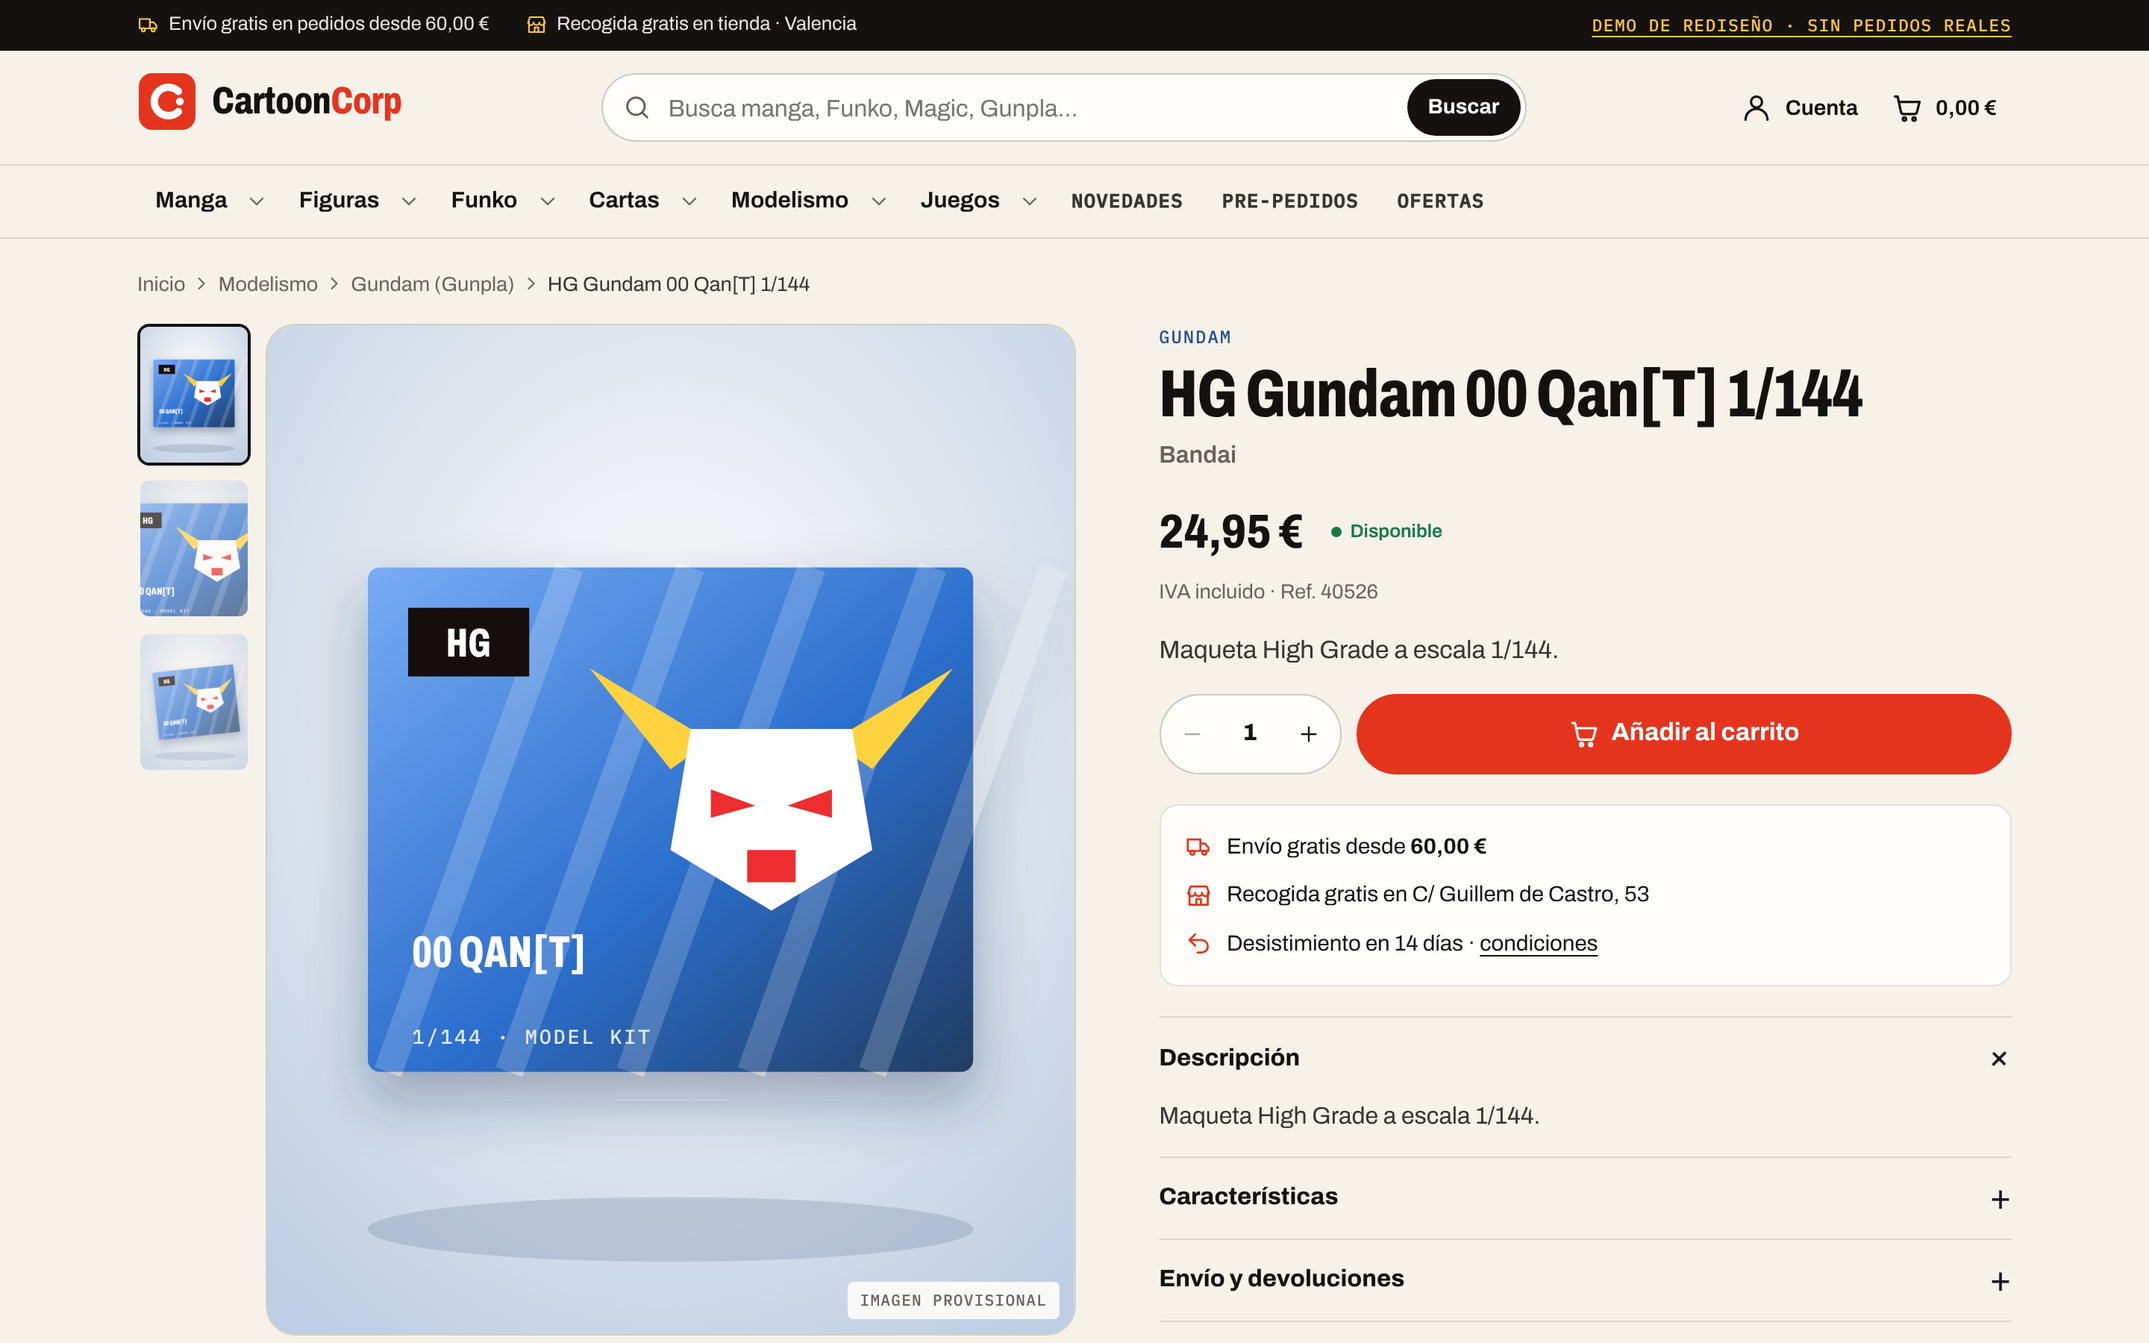
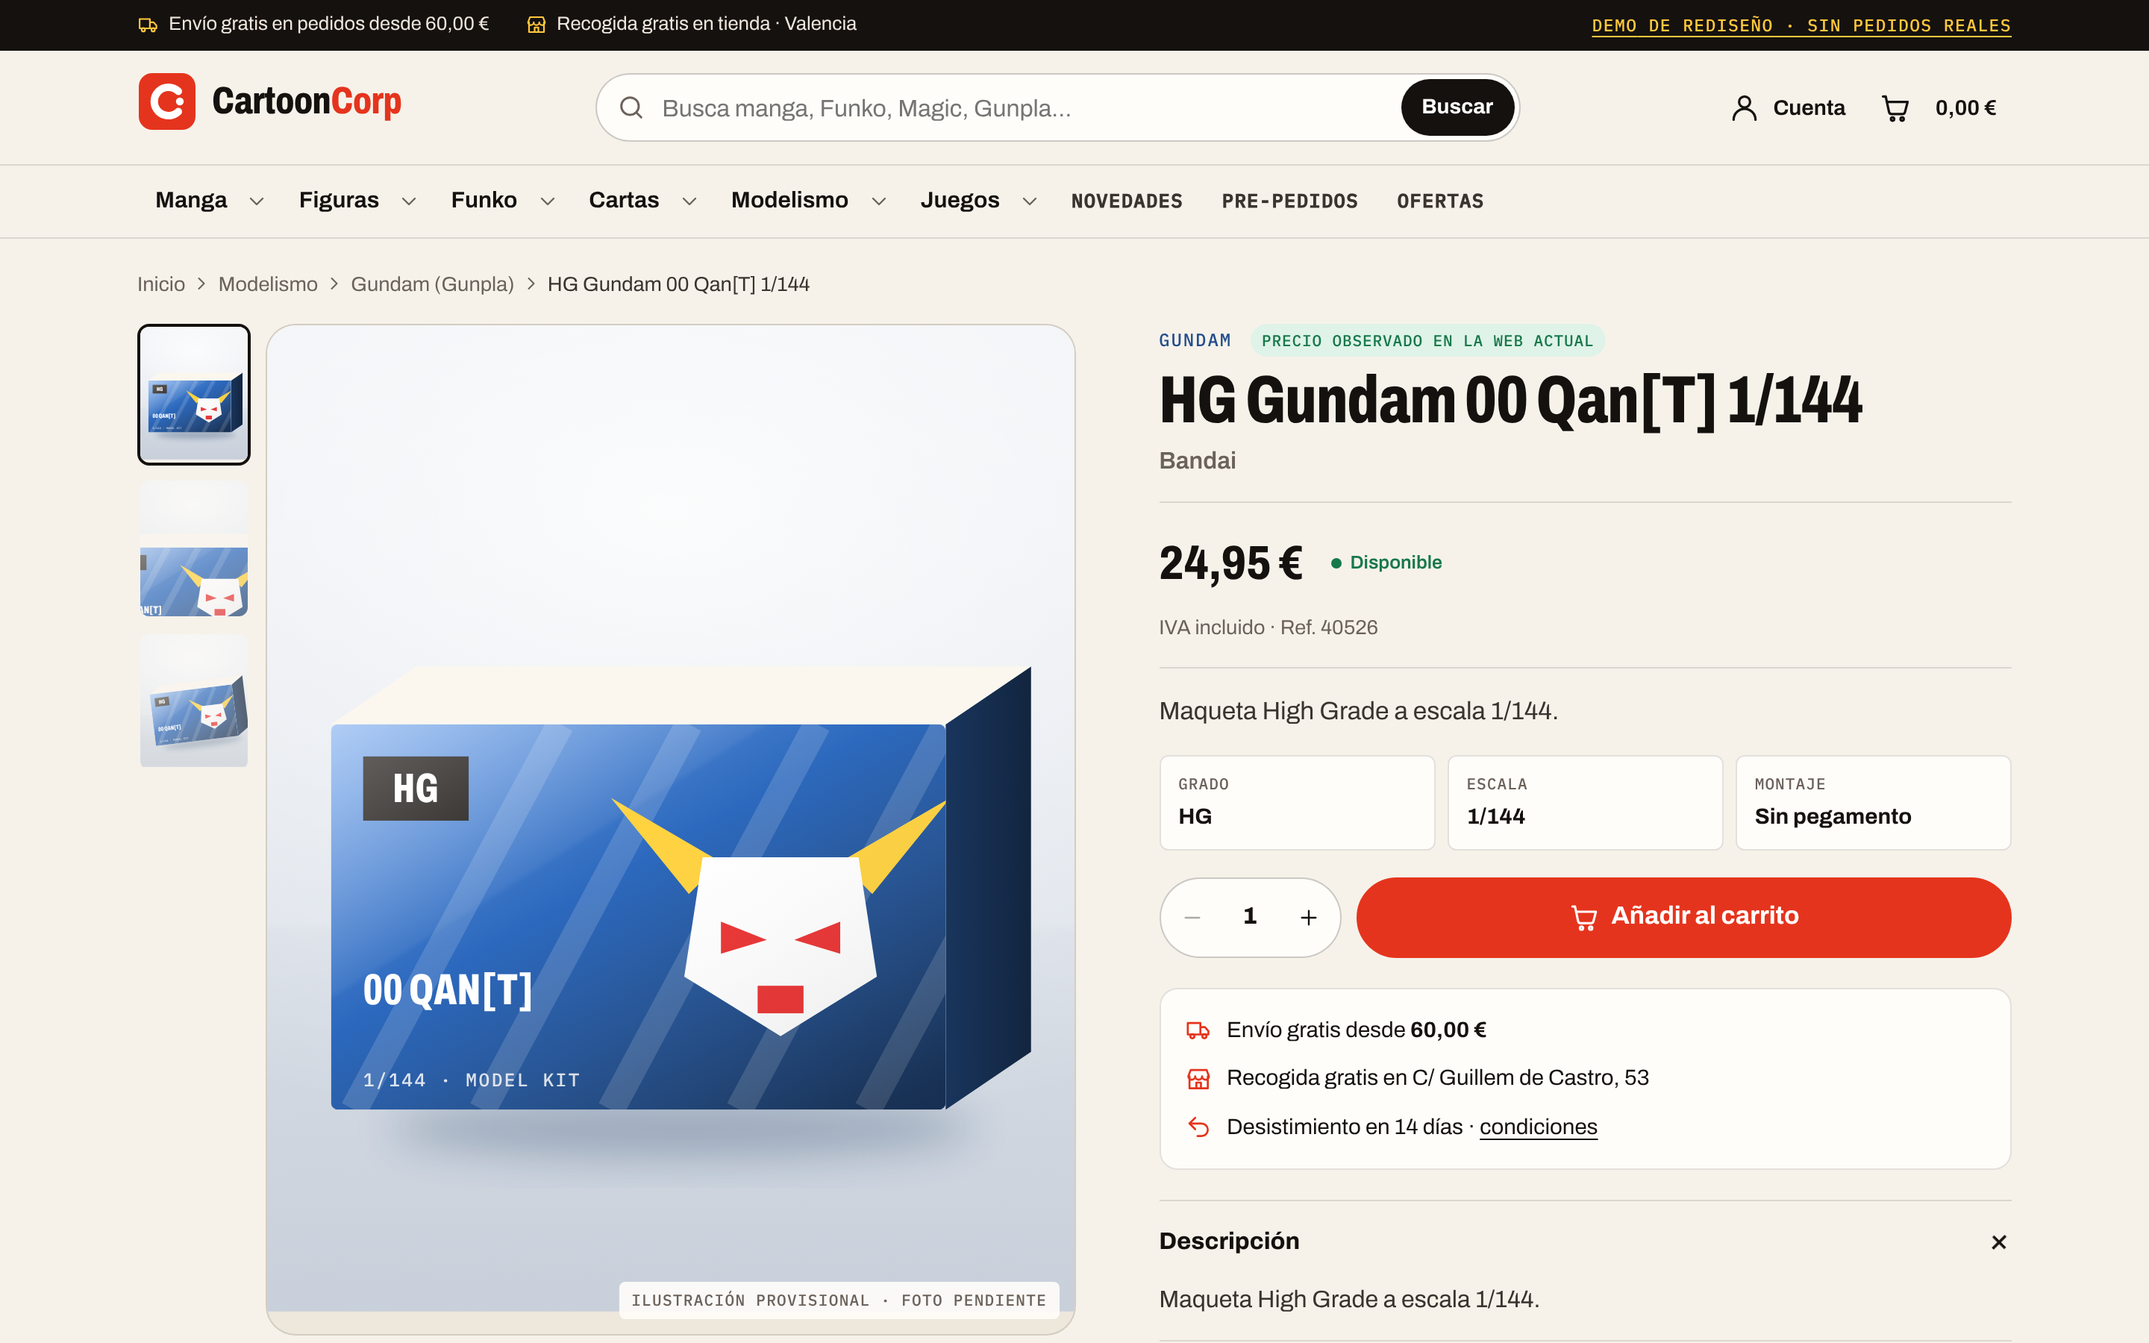
Segunda iteración: corregir barra fija, fotos reales y detalles visuales
- Barra de compra fija en móvil: se calcula en cada scroll; con
  IntersectionObserver no aparecía tras saltos bruscos de scroll.
- ProductMedia: fallo de foto recordado por URL (una foto rota no afecta
  al resto de la galería) y crédito/nota de la galería dentro del
  componente para no mostrar el crédito de una foto que no carga.
- Contador del carrito que tapaba el importe, icono del mapa que saltaba
  de línea, newsletter fuera del checkout y etiqueta «Producto demo» en
  el resumen del pedido.
- Documentación: cifras corregidas (44 productos, 34 con nombre y 25 con
  precio observados), guía para añadir fotos reales y registro de cambios.
- Capturas de docs/capturas actualizadas.

Claude-Session: https://claude.ai/code/session_011khPgsp6QF3zhoMW4gWyVA

diff --git a/cartooncorp-demo/src/pages/ProductPage.tsx b/cartooncorp-demo/src/pages/ProductPage.tsx
@@ -54,13 +54,27 @@ function ProductView({ product }: { product: Product }) {
   const buyBox = useRef<HTMLDivElement>(null);
   const [showSticky, setShowSticky] = useState(false);
 
-  // Barra fija de compra en móvil cuando el botón principal sale de la vista.
+  // Barra fija de compra en móvil cuando el botón principal queda por encima
+  // de la pantalla. Se calcula en cada scroll (y no con IntersectionObserver)
+  // para que funcione también con saltos bruscos de scroll.
   useEffect(() => {
-    const el = buyBox.current;
-    if (!el || typeof IntersectionObserver === "undefined") return;
-    const io = new IntersectionObserver(([entry]) => setShowSticky(!entry.isIntersecting && entry.boundingClientRect.top < 0));
-    io.observe(el);
-    return () => io.disconnect();
+    let frame = 0;
+    const update = () => {
+      frame = 0;
+      const el = buyBox.current;
+      if (el) setShowSticky(el.getBoundingClientRect().bottom < 0);
+    };
+    const onScroll = () => {
+      if (!frame) frame = requestAnimationFrame(update);
+    };
+    update();
+    window.addEventListener("scroll", onScroll, { passive: true });
+    window.addEventListener("resize", onScroll);
+    return () => {
+      cancelAnimationFrame(frame);
+      window.removeEventListener("scroll", onScroll);
+      window.removeEventListener("resize", onScroll);
+    };
   }, []);
 
   const onAdd = () => {
@@ -229,13 +243,10 @@ function Gallery({ product }: { product: Product }) {
   const slides = photos.length > 1 ? photos.map((p, i) => ({ label: p.alt, index: i, view: 0 })) : ["Vista frontal", "Detalle", "Vista en ángulo"].map((label, v) => ({ label, index: 0, view: photos.length ? 0 : v }));
   const items = photos.length === 1 ? slides.slice(0, 1) : slides;
   const current = items[view] ?? items[0];
-  const photo = product.images[current.index];
   return (
     <div className="gallery">
       <div className="gallery__main">
-        <ProductMedia product={product} index={current.index} view={current.view} eager sizes="(min-width: 768px) 50vw, 100vw" />
-        {!photo?.src && <span className="gallery__note">Ilustración provisional · foto pendiente</span>}
-        {photo?.src && photo.credit && <span className="gallery__note">© {photo.credit}{photo.license ? ` · ${photo.license}` : ""}</span>}
+        <ProductMedia product={product} index={current.index} view={current.view} eager caption sizes="(min-width: 768px) 50vw, 100vw" />
       </div>
       {items.length > 1 && (
         <div className="gallery__thumbs" role="group" aria-label="Imágenes del producto">

diff --git a/cartooncorp-demo/src/components/ProductMedia.tsx b/cartooncorp-demo/src/components/ProductMedia.tsx
@@ -5,13 +5,15 @@ import { ProductArt } from "./ProductArt";
 /**
  * Imagen de producto. Usa la foto real (`product.images[i].src`) cuando existe
  * y vuelve a la ilustración provisional si no hay foto o si no carga.
- * Con `mark`, la ilustración lleva una etiqueta que la identifica como provisional.
+ * Con `mark`, la ilustración lleva una etiqueta que la identifica como provisional;
+ * con `caption`, una nota más detallada (para la galería), o el crédito de la foto.
  */
 export function ProductMedia({
   product,
   index = 0,
   view = 0,
   mark = false,
+  caption = false,
   eager = false,
   sizes = "(min-width: 1024px) 25vw, 50vw",
   frame,
@@ -20,26 +22,36 @@ export function ProductMedia({
   index?: number;
   view?: number;
   mark?: boolean;
+  caption?: boolean;
   eager?: boolean;
   sizes?: string;
   frame?: "portrait" | "wide";
 }) {
   const image = product.images[index] ?? product.images[0];
-  const [failed, setFailed] = useState(false);
+  // Se guarda qué URL ha fallado para que una foto rota no afecte a las demás.
+  const [failedSrc, setFailedSrc] = useState<string>();
 
-  if (image?.src && !failed) {
+  if (image?.src && image.src !== failedSrc) {
     return (
-      <img
-        className="product-photo"
-        src={image.src}
-        alt={image.alt}
-        width={1200}
-        height={1500}
-        sizes={sizes}
-        loading={eager ? "eager" : "lazy"}
-        decoding="async"
-        onError={() => setFailed(true)}
-      />
+      <>
+        <img
+          className="product-photo"
+          src={image.src}
+          alt={image.alt}
+          width={1200}
+          height={1500}
+          sizes={sizes}
+          loading={eager ? "eager" : "lazy"}
+          decoding="async"
+          onError={() => setFailedSrc(image.src)}
+        />
+        {caption && image.credit && (
+          <span className="gallery__note">
+            © {image.credit}
+            {image.license ? ` · ${image.license}` : ""}
+          </span>
+        )}
+      </>
     );
   }
 
@@ -47,6 +59,7 @@ export function ProductMedia({
     <>
       <ProductArt product={product} view={view} frame={frame} />
       {mark && <span className="ph-mark">Ilustración provisional</span>}
+      {caption && <span className="gallery__note">Ilustración provisional · foto pendiente</span>}
     </>
   );
 }

diff --git a/cartooncorp-demo/src/styles/global.css b/cartooncorp-demo/src/styles/global.css
@@ -677,6 +677,7 @@ main:focus { outline: none; }
 .summary__qty { position: absolute; top: -6px; right: -6px; min-width: 22px; height: 22px; border-radius: 999px; background: var(--ink); color: #fff; font-size: 0.75rem; font-weight: 800; display: grid; place-items: center; }
 .summary__name { line-height: 1.3; display: grid; }
 .summary__name small { color: var(--muted); }
+.summary__name .summary__demo { color: var(--warn); font-family: var(--mono); font-size: 0.66rem; text-transform: uppercase; letter-spacing: 0.04em; }
 
 /* ---------- checkout y formularios ---------- */
 .checkout__banner { display: flex; gap: 12px; align-items: flex-start; padding: 14px 16px; border-radius: var(--r); background: var(--warn-soft); border: 1px solid #f0d58a; margin-bottom: 20px; font-size: 0.92rem; }
@@ -758,7 +759,8 @@ main:focus { outline: none; }
 .contact__list li { display: flex; gap: 14px; }
 .contact__list .icon { width: 24px; height: 24px; color: var(--brand); margin-top: 2px; }
 .contact__list div { display: grid; gap: 2px; }
-.contact__list a { font-weight: 600; }
+.contact__list a { font-weight: 600; display: inline-flex; align-items: center; gap: 4px; }
+.contact__list a .icon { width: 16px; height: 16px; }
 .contact__sent { display: grid; justify-items: start; gap: 12px; }
 .store-page { display: grid; gap: 28px; align-items: start; }
 .store-page__panels { display: grid; gap: 16px; }
@@ -858,7 +860,8 @@ main:focus { outline: none; }
   .header__burger, .header__search-btn { display: none; }
   .header__search { display: block; flex: 1; max-width: 620px; margin: 0 auto; }
   .header__action-label { display: inline; }
-  .header__cart .badge-count { right: auto; left: 26px; }
+  .header__cart .badge-count { right: auto; left: 20px; top: 0; min-width: 19px; height: 19px; font-size: 0.68rem; }
+  .header__cart .header__action-label { margin-left: 8px; font-variant-numeric: tabular-nums; }
   .catbar { display: block; }
   .logo__mark { width: 40px; height: 40px; }
   .logo__word { font-size: 1.6rem; }

diff --git a/cartooncorp-demo/src/pages/AboutDemoPage.tsx b/cartooncorp-demo/src/pages/AboutDemoPage.tsx
@@ -39,7 +39,7 @@ export default function AboutDemoPage() {
         <h2>Qué es real y qué es simulado</h2>
         <ul>
           <li><strong>{observed} de {products.length} productos</strong> usan nombres vistos en la web pública; {observedPrice} de ellos también su precio (consulta de octubre de 2026, puede haber cambiado).</li>
-          <li>Los productos marcados como <em>«producto de demostración»</em> son ficticios y sirven para mostrar secciones o estados (agotado, pre-pedido, variantes).</li>
+          <li>Los productos con la etiqueta <em>«Producto demo»</em> son ficticios y sirven para mostrar secciones o estados (agotado, pre-pedido, variantes). Cada ficha indica además si su precio es el observado en la web actual o uno de demostración.</li>
           <li>Sólo se muestran precios tachados cuando el precio anterior se vio en la web actual.</li>
           <li>La disponibilidad es simulada salvo dos casos observados.</li>
           <li>Las imágenes son ilustraciones provisionales generadas para la demo; el logotipo es una propuesta y no el oficial.</li>

diff --git a/cartooncorp-demo/src/components/Footer.tsx b/cartooncorp-demo/src/components/Footer.tsx
@@ -1,5 +1,5 @@
 import { useState, type FormEvent } from "react";
-import { Link } from "react-router";
+import { Link, useLocation } from "react-router";
 import { topCategories } from "../data/categories";
 import { store } from "../data/store";
 import { email as emailRule } from "../services/validation";
@@ -8,9 +8,12 @@ import { Icon } from "./Icon";
 import { Logo } from "./Logo";
 
 export function Footer() {
+  // En el checkout y la confirmación no se distrae con la suscripción.
+  const { pathname } = useLocation();
+  const inCheckout = pathname.startsWith("/checkout") || pathname.startsWith("/pedido/");
   return (
     <footer className="footer">
-      <Newsletter />
+      {!inCheckout && <Newsletter />}
       <div className="container footer__grid">
         <div className="footer__brand">
           <Logo inverted />

diff --git a/cartooncorp-demo/src/pages/CheckoutPage.tsx b/cartooncorp-demo/src/pages/CheckoutPage.tsx
@@ -292,6 +292,7 @@ export default function CheckoutPage() {
                 <span className="summary__name">
                   {l.product.name}
                   {l.optionLabels.length > 0 && <small>{l.optionLabels.join(" · ")}</small>}
+                  {l.product.source.name === "demo" && <small className="summary__demo">Producto demo</small>}
                 </span>
                 <span>{formatPrice(l.lineTotal)}</span>
               </li>

diff --git a/cartooncorp-demo/docs/ENTREGA.md b/cartooncorp-demo/docs/ENTREGA.md
@@ -86,10 +86,10 @@ No usa el código, la base de datos ni el panel de la tienda actual, y no está 
 
 ## 3. Elementos demostrativos que necesitan datos reales del cliente
 
-- **Catálogo completo.** La demo tiene 45 productos: 35 con nombre real y 26 de ellos también con precio observado, más 10 productos ficticios marcados "(producto de demostración)".
+- **Catálogo completo.** La demo tiene 44 productos: 34 con nombre real y 25 de ellos también con precio observado, más 10 productos ficticios con la etiqueta "Producto demo".
 - **Precios.** Hay que confirmar los observados y sustituir los de demostración.
 - **Stock y disponibilidad.** Son simulados, salvo 2 casos observados.
-- **Fotografías de producto.** Ahora son ilustraciones SVG generadas. El campo `images[].src` ya está preparado para poner la foto real.
+- **Fotografías de producto.** Ahora son ilustraciones provisionales, marcadas como tales. Para añadir las fotos reales ver la sección 7.
 - **Logotipo y colores de marca.** El logotipo es una propuesta (`src/components/Logo.tsx`).
 - **Tarifas y plazos de envío.** Los 4,95 € son un valor de demostración.
 - **Formas de pago y condiciones de los pre-pedidos.**
@@ -98,6 +98,8 @@ No usa el código, la base de datos ni el panel de la tienda actual, y no está 
 - **Orden de "Novedades"** (`addedAt` es una fecha interna de la demo).
 
 ## 4. Limitaciones por no tener acceso al sistema original
+
+- No se han podido incluir fotos reales de producto: el entorno de desarrollo bloquea los bancos de imágenes con licencia abierta (Wikimedia Commons, Openverse, Flickr, Unsplash) y la web de CartoonCorp. No se ha usado ninguna imagen cuya licencia no se haya podido comprobar.
 
 - No se pudo abrir la web actual desde el entorno, porque la red bloqueaba el dominio. La investigación se basa en páginas indexadas (ver `INVESTIGACION.md`).
 - Sin acceso a PrestaShop no hay catálogo completo, stock real, clientes, pedidos, reglas de precios ni promociones.
@@ -125,3 +127,52 @@ No usa el código, la base de datos ni el panel de la tienda actual, y no está 
 5. **Integrar pagos, stock y pedidos;** primero en un entorno de pruebas y luego en producción.
 6. **Migrar SEO:** mapa de redirecciones, sitemap y Search Console.
 7. **Lanzamiento por fases:** tienda nueva en un subdominio, pruebas con clientes habituales y cambio de dominio.
+
+## 7. Imágenes: cómo sustituir las ilustraciones por fotos
+
+Cada producto muestra una ilustración provisional ("packshot" dibujado con el color de su licencia), marcada con "Ilustración provisional" en tarjetas y fichas. No imita portadas ni logotipos reales.
+
+Para poner fotos reales:
+
+1. Copia cada foto a `public/productos/<id>.webp`. Recomendado: 1200×1500 px (4:5), producto centrado sobre fondo claro y uniforme.
+2. Regístrala en `src/data/photos.ts` con su texto alternativo, crédito y licencia. La ficha muestra el crédito automáticamente.
+3. Si un producto tiene varias fotos, la ficha muestra una miniatura por foto.
+
+Si una foto no carga, se vuelve a mostrar la ilustración (comprobado con una foto válida, una rota y una galería mixta).
+
+Fuentes recomendadas, por orden: fotos propias de CartoonCorp o las que ya usa en su web (las tiene el cliente), material de prensa de editoriales y fabricantes con permiso para distribuidores, y bancos con licencia abierta revisando cada licencia.
+
+## 8. Segunda iteración de calidad (cambios)
+
+**Imágenes**
+- Ilustraciones rehechas como fotos de producto de estudio: volumen (frontal, lateral y tapa), luz cenital y sombra de contacto, mismo fondo en todos los productos. Encuadre vertical para tarjetas y panorámico para mosaicos.
+- Componente `ProductMedia`: usa la foto real si existe y la ilustración si falta o falla.
+
+**Portada**
+- Franja de ventajas (envío, recogida, producto oficial, atención) justo bajo el hero.
+- Categorías con imagen de un producto real de cada sección.
+- "Novedades" y "Descubre" unidas en una sola sección con pestañas (Todo, Manga, Figuras, Cartas, Gunpla).
+- Ajustes del hero en móvil: botones en una fila y precios sin tapar las imágenes.
+
+**Catálogo y fichas**
+- Tarjetas con botón de compra con texto ("Añadir", "Reservar", "Elegir opción", "Sin stock"), % de descuento real y etiqueta "Producto demo" uniforme. Los nombres de productos demo ya no llevan sufijo.
+- Fichas con indicador del origen del precio (observado o de demostración), importe ahorrado en ofertas, tres características clave a la vista y relacionados que siempre completan la fila.
+- Barra de orden y filtros reorganizada en móvil.
+- Checkout sin newsletter; etiqueta "Producto demo" también en carrito y resumen del pedido.
+
+**Errores corregidos**
+- La barra de compra fija en móvil no aparecía si se bajaba de golpe por la página (usaba `IntersectionObserver`, que no detecta saltos de scroll).
+- Las etiquetas "Pre-pedido" y "Producto demo" se solapaban en tarjetas estrechas.
+- El contador del carrito tapaba el importe en la cabecera.
+- El icono de "Abrir en el mapa" saltaba de línea.
+- La documentación decía 45 productos; son 44 (34 con nombre observado, 25 con precio observado).
+
+**Validación**
+- `npm test`: 28 pruebas unitarias en verde.
+- `npm run test:e2e`: todos los recorridos en verde, incluidos los nuevos de barra fija, solape de etiquetas y tamaño de botones táctiles.
+- Revisión visual en capturas de portada, catálogo, fichas, carrito y checkout (escritorio 1440 px y móvil 390 px) y de las páginas secundarias en móvil. Las 27 rutas se comprueban automáticamente (h1, sin errores de consola, sin desbordamiento) en ambos tamaños. No se ha probado en tablet ni en navegadores distintos de Chromium.
+
+**Pendiente**
+- Fotos reales de producto (sección 7).
+- Prueba en Safari/iOS y en tablet.
+- Las páginas legales siguen siendo plantillas.
